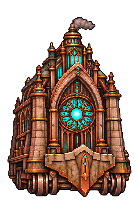
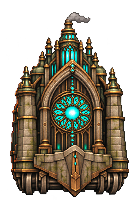
Рунный экспресс: повороты перерисованы, поезда для тестов без оплаты
Повороты рунного — тот же фасад, цвет и башни, что в ходе, борт узкой
полосой (отзыв владельца). Новые точки хвата и нос поворотов. В README
функции — как выдать тестеру поезда строкой gift и забрать их; в roster —
как привязать координатора после перезапуска Orca.

diff --git a/js/CollapseScene.js b/js/CollapseScene.js
@@ -73,7 +73,7 @@ const CollapseArt = {
             locoTurn: { left: 'assets/px/train/rune/loco_turn_left.png', right: 'assets/px/train/rune/loco_turn_right.png' },
             locoFall: { left: 'assets/px/train/rune/loco_fall_left.png', right: 'assets/px/train/rune/loco_fall_right.png' },
             locoDamaged: 'assets/px/train/rune/loco_damaged.png',
-            full: true, over: true, grip: [115, 92], gripTurn: { left: [98, 96], right: [114, 95] }, nose: { left: -16.5, right: 14.5 },
+            full: true, over: true, grip: [115, 92], gripTurn: { left: [111, 94], right: [113, 94] }, nose: { left: -2.5, right: 4.5 },
         },
         bio: {
             loco: ['assets/px/train/bio/loco_run_0.png', 'assets/px/train/bio/loco_run_1.png',

diff --git a/tasks/open/49-station-art.md b/tasks/open/49-station-art.md
@@ -17,7 +17,7 @@
 
 Ход новых скинов — по уроку второй попытки (`art_src/trains_v2/README.md` в ветке `art-trains`, прошла проверку формы): каждый кадр рисуется целиком одним листом image_gen, ничего не выходит за контур кадра 1, крыша кабины на линии кадра поворота ±2 px, в Pillow только целый кадр одним масштабом по обеим осям, растяжки по одной оси нет. Говорить «ход», не «бег». На каждый 11 кадров того же размера и с той же привязкой, что `assets/px/train/`: `loco_run` ×4, `loco_shot` ×2, `loco_turn` ×2, `loco_fall` ×2, `loco_damaged`. Сначала ключевой кадр бега каждого поезда, остальное только после одобрения владельца. Логотипы дорог, гербы, флаги, серп и молот, красная звезда запрещены.
 
-Полные наборы готовы 2026-11-03. Адский: `art_src/skins_full_v1/`, ветка `art-skins`; первая попытка Sol остановилась на моих слишком строгих допусках, набор принят глазами. Рунный и биомеханический: `art_src/skins_full_v2/`, ветки `DobriyDc/DobriyDc-art-skins-rune` и `-bio`. В игре они лежат в `assets/px/train/<поезд>/`, записи в `CollapseArt.trains`: `grip` и `gripTurn` — точка хвата демона в ходе и поворотах, `nose` — нос кадров поворота, `over` — передний слой, видимый, пока висит демон. Хват: адский (109,89), повороты (112,79)/(109,85); рунный (115,92), (98,96)/(114,95); биомеханический (111,56), (108,58)/(116,58). Нос поворотов: −7,5/9,5, −16,5/14,5, −13,5/14,5 px. Известная мелочь: в адском падении вправо труба на другой стороне.
+Полные наборы готовы 2026-11-03. Адский: `art_src/skins_full_v1/`, ветка `art-skins`; первая попытка Sol остановилась на моих слишком строгих допусках, набор принят глазами. Рунный и биомеханический: `art_src/skins_full_v2/`, ветки `DobriyDc/DobriyDc-art-skins-rune` и `-bio`. В игре они лежат в `assets/px/train/<поезд>/`, записи в `CollapseArt.trains`: `grip` и `gripTurn` — точка хвата демона в ходе и поворотах, `nose` — нос кадров поворота, `over` — передний слой, видимый, пока висит демон. Хват: адский (109,89), повороты (112,79)/(109,85); рунный (115,92), (111,94)/(113,94); биомеханический (111,56), (108,58)/(116,58). Нос поворотов: −7,5/9,5, −2,5/4,5, −13,5/14,5 px. Повороты рунного перерисованы 2026-11-03 по отзыву владельца («сильно меняется на поворотах, пропорции задней части странны»): `art_src/skins_full_v2/rune/turn_v2/`, тот же фасад и цвет, борт узкой полосой. Известная мелочь: в адском падении вправо труба на другой стороне.
 
 Поезда рисуются в стиле `assets/px/train/loco_run_0.png`: полный цвет и мягкий край, палитру даёт рендер. Фары горят, окна светятся, идёт дым, нос у каждого поезда свой.
 

diff --git a/server/leaderboard/README.md b/server/leaderboard/README.md
@@ -115,6 +115,15 @@ npx wrangler d1 execute collapse-leaderboard --remote --command "SELECT * FROM p
 curl.exe -F "user_id=ID" -F "telegram_payment_charge_id=CHARGE_ID" https://api.telegram.org/botТОКЕН/refundStarPayment
 ```
 
+Поезда для теста без оплаты: строка в `purchases` с `charge_id = 'gift'` и нулём звёзд. Игра видит её как покупку при следующем открытии магазина. Номер игрока в Telegram (ID) можно найти по его донату: `SELECT user_id, stars, datetime(at, 'unixepoch') FROM donations`.
+
+```
+npx --yes wrangler@4.156.0 d1 execute collapse-leaderboard --remote -c wrangler.local.toml --command "INSERT OR IGNORE INTO purchases (user_id, item, charge_id, stars, at) VALUES (ID, 'hell', 'gift', 0, CAST(strftime('%s','now') AS INTEGER)), (ID, 'rune', 'gift', 0, CAST(strftime('%s','now') AS INTEGER)), (ID, 'bio', 'gift', 0, CAST(strftime('%s','now') AS INTEGER))"
+npx --yes wrangler@4.156.0 d1 execute collapse-leaderboard --remote -c wrangler.local.toml --command "DELETE FROM purchases WHERE charge_id = 'gift' AND user_id = ID"
+```
+
+Первая команда выдаёт три поезда, вторая забирает их. Подарок не уходит в Telegram, поэтому вернуть по нему нечего.
+
 ## Когда меняются правила
 
 Правила и числа забега встроены в функцию при сборке, новая версия игры без нового деплоя получит отказы.
